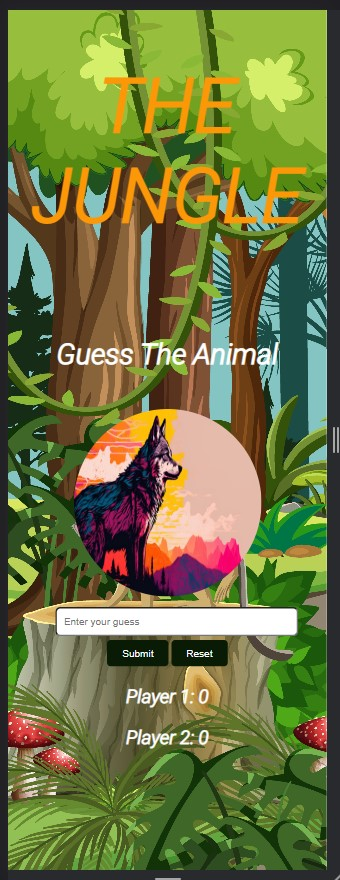
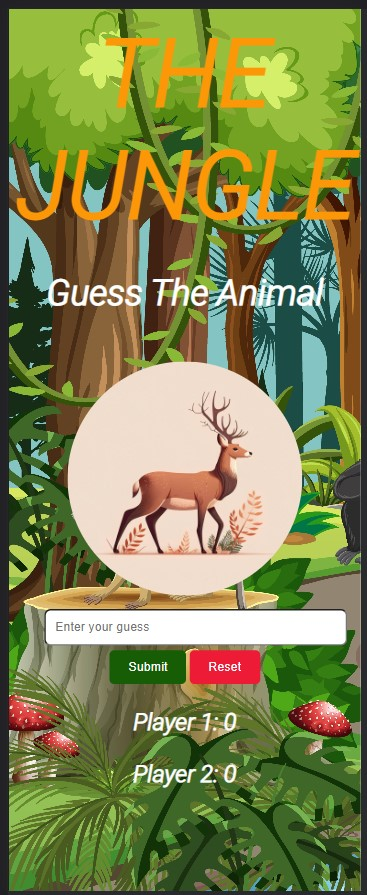
wireframes

diff --git a/assets/CSS/style.css b/assets/CSS/style.css
@@ -14,7 +14,8 @@ body {
 }
 
 h1 {
-
+    margin-top: 0;
+    margin-bottom: 0;
     color: rgb(252, 151, 8);
     font-size: 6.25rem;
 }
@@ -80,7 +81,7 @@ input#answer-input {
 
     margin-top: 0.625rem;
     font-weight: bold;
-    color: rgb(248, 4, 17);
+    color: rgb(238, 27, 55);
     font-size: 1.563rem;
 }
 
